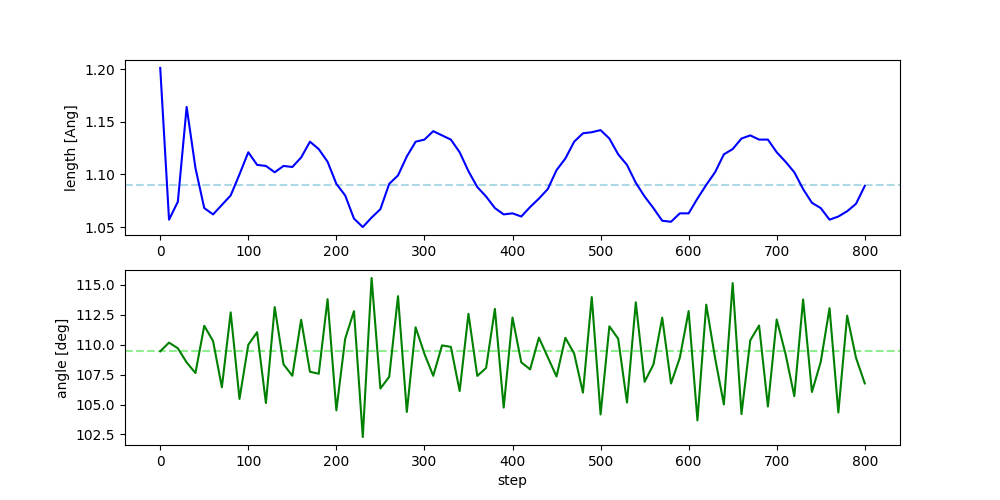
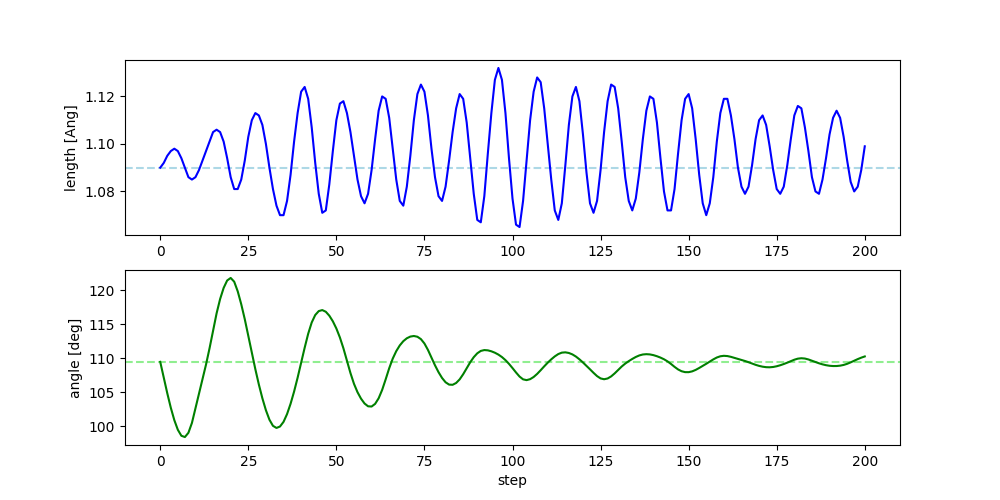
Update

diff --git a/CH4_MD.py b/CH4_MD.py
@@ -13,11 +13,12 @@ from ase.geometry.analysis import Analysis
 from ase.build import molecule
 
 #choose label
-label=1
+label=0
+# label=1
 ## choose prefix
 # prefix="tutorial"
-# prefix="abacus_nn"
-prefix="openmx_nn"
+prefix="abacus_nn"
+# prefix="openmx_nn"
 
 # atoms = molecule('CH4')
 ## take care of "positions"　#Ang 1e-10
@@ -42,10 +43,10 @@ atoms.set_calculator(DP(model=f"{label}1.train/graph.pb"))
 dt = 1.0 * units.fs
 
 ## choose temps, steps
-temp0, nsteps0 = 200, 200
-temp1, nsteps1 = 300, 600
+temp0, nsteps0 = 300, 100
+temp1, nsteps1 = 300, 100
 taut = 1.0 * units.fs #used in NVTB
-num_interval=10
+num_interval=1
 
 MaxwellBoltzmannDistribution(atoms, temp0*units.kB)
 
@@ -82,7 +83,7 @@ def myprint():
     # print(f'time={dyn.get_time() / units.fs: 5.0f} fs '+f'T={atoms.get_temperature(): 3.0f} K ')
     print(f'{ dyn.get_time()/units.fs:5.0f}   '+f'{np.linalg.norm(vec1):5.3f}   '+f'{np.linalg.norm(vec2):5.3f}   '+f'{np.linalg.norm(vec3):5.3f}   '+f'{calculate_angle(vec1,vec2):5.3f}   '+f'{calculate_angle(vec2,vec3):5.3f}   '+f'{calculate_angle(vec3,vec1):5.3f}')
 
-dyn.attach(myprint, interval=10)
+dyn.attach(myprint, interval=1)
 dyn.attach(MDLogger(dyn, atoms, f"log/{prefix}.log", header=True, peratom=True, mode="w"), interval=num_interval)
 
 dyn.run(nsteps0)

diff --git a/H2O_MD.py b/H2O_MD.py
@@ -16,7 +16,7 @@ label=2
 ## choose prefix
 # prefix="emt"
 # prefix="dp_vasp"
-prefix="H2O"
+prefix="H2O_nn"
 # prefix="dp_abcus"
 
 ## take care of "positions"
@@ -39,11 +39,11 @@ atoms.set_calculator(DP(model=f"{label}1.train/graph.pb"))
 dt = 1.0 * units.fs
 
 ## choose temps, steps
-temp0, nsteps0 = 300, 200
-temp1, nsteps1 = 300, 600
+temp0, nsteps0 = 300, 100
+temp1, nsteps1 = 300, 100
 taut = 1.0 * units.fs #used in NVTB
 # ttime= 40.0*units.fs #used in N-H
-num_interval=10
+num_interval=1
 
 MaxwellBoltzmannDistribution(atoms, temp0*units.kB)
 # MaxwellBoltzmannDistribution(atoms, temperature_K=temp0,force_temp=True)
@@ -83,7 +83,7 @@ def myprint():
     # print(f'time={dyn.get_time() / units.fs: 5.0f} fs '+f'T={atoms.get_temperature(): 3.0f} K ')
     print(f'{ dyn.get_time()/units.fs:5.0f}   '+f'{np.linalg.norm(vec1):5.3f}   '+f'{np.linalg.norm(vec2):5.3f}   '+f'{calculate_angle(vec1,vec2):5.3f}')
 
-dyn.attach(myprint, interval=10)
+dyn.attach(myprint, interval=1)
 dyn.attach(MDLogger(dyn, atoms, f"log/{prefix}.log", header=True, peratom=True, mode="w"), interval=num_interval)
 
 dyn.run(nsteps0)
